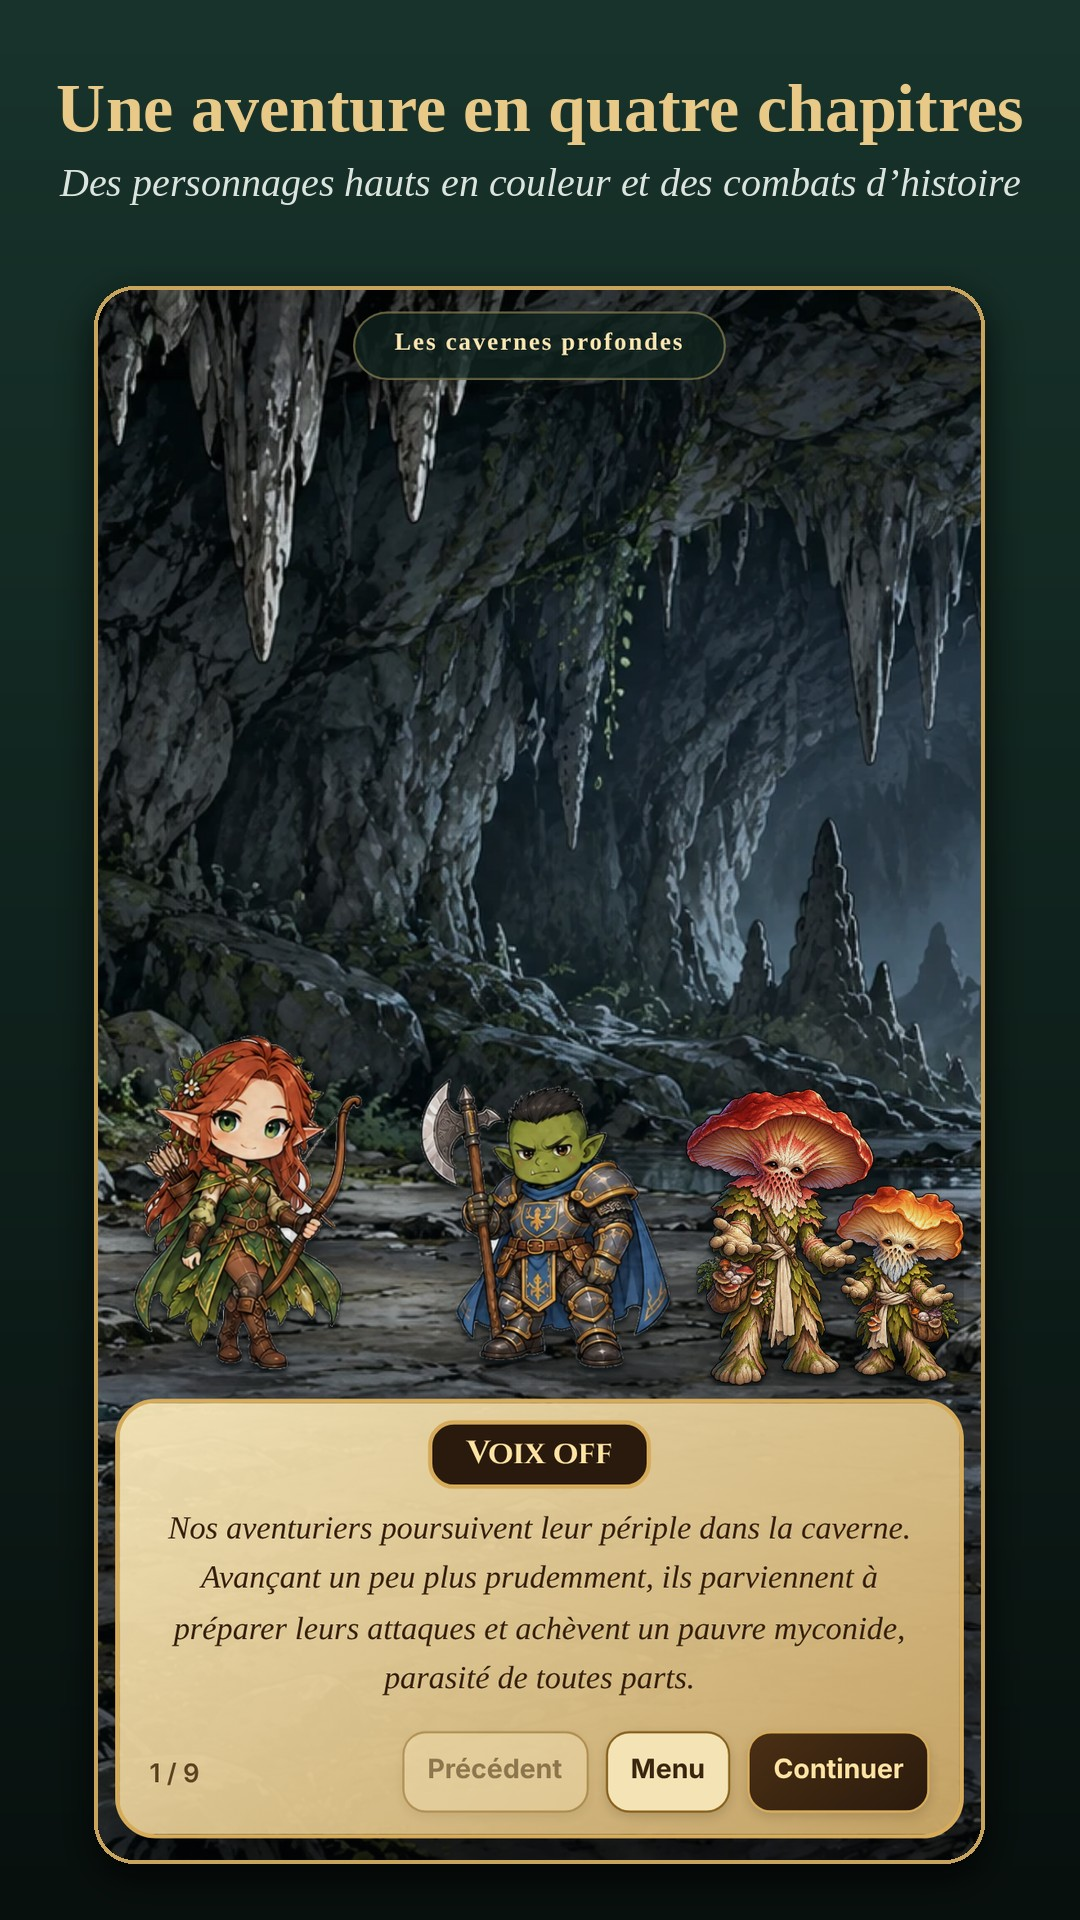
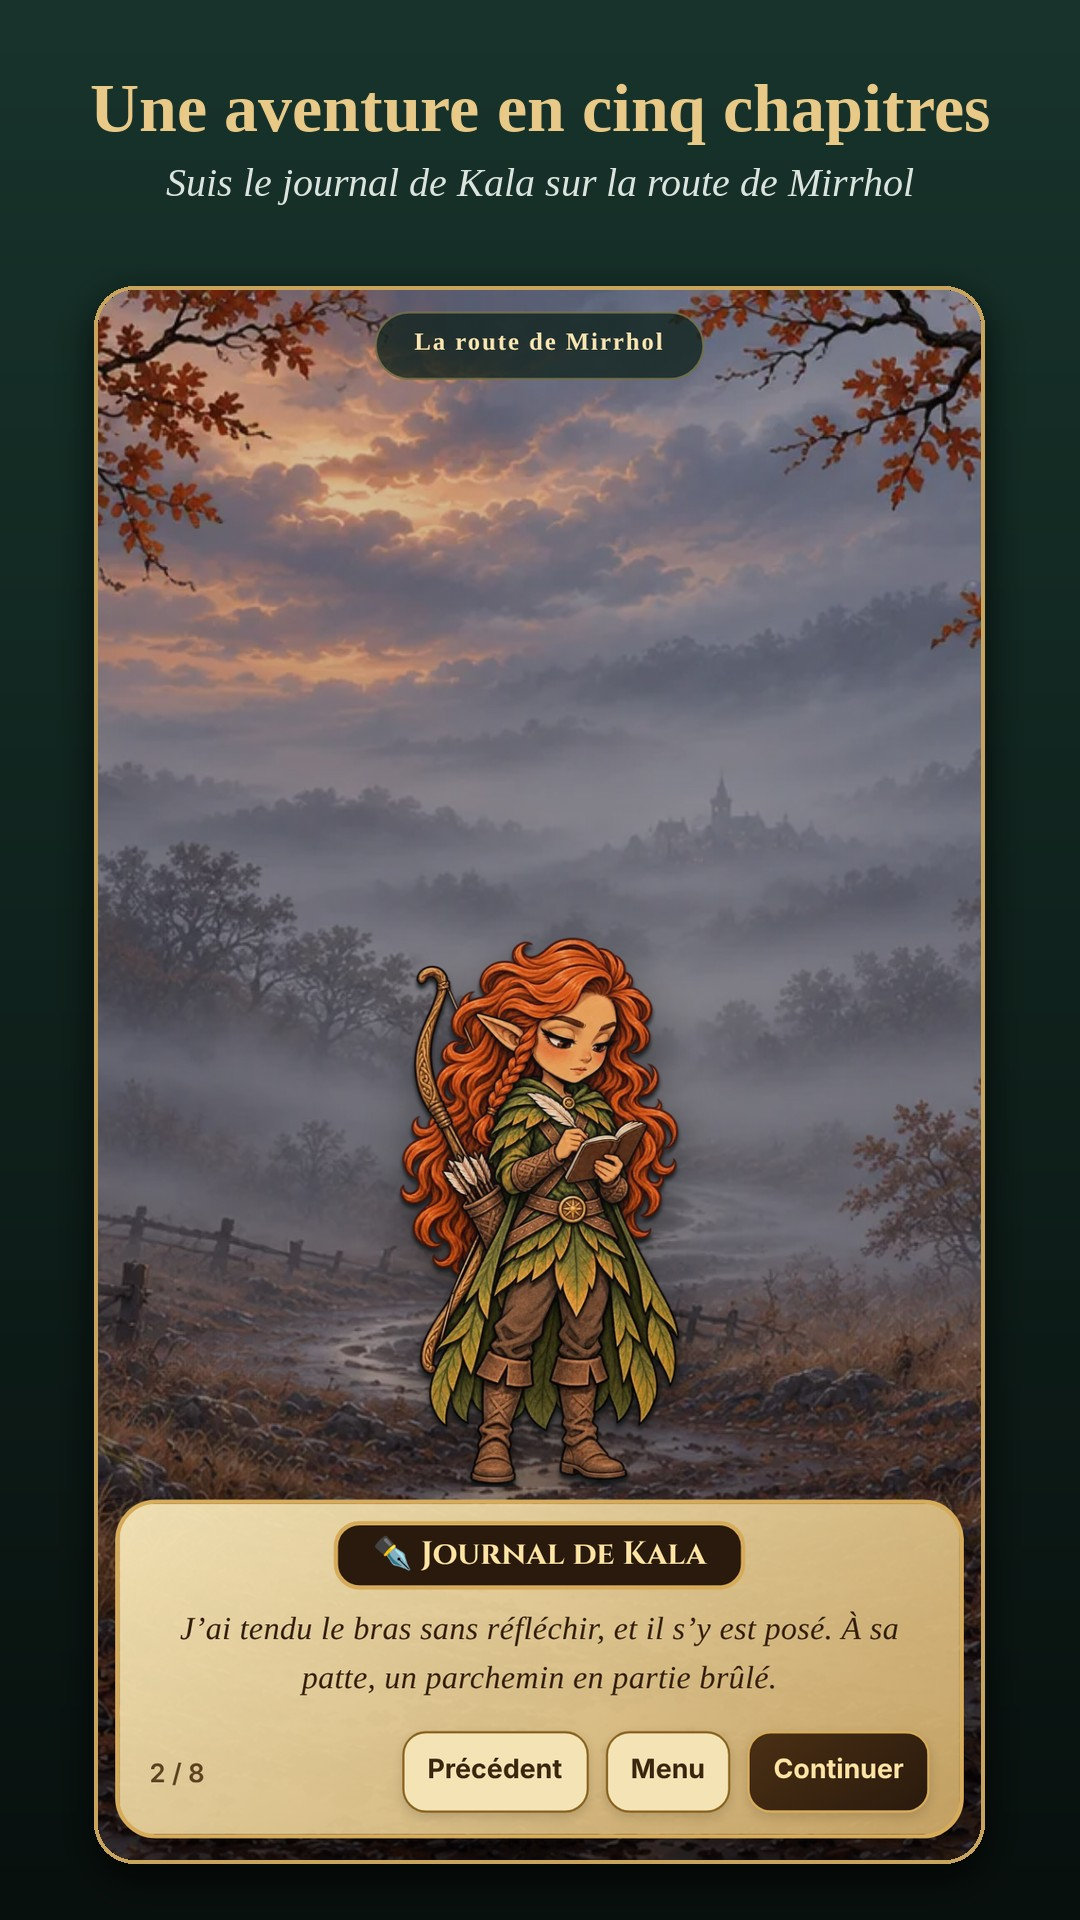
Fiche Play Store à jour : captures 0.5.6, cinq chapitres, plus de 230 dés, politique de confidentialité datée du 24 novembre

diff --git a/confidentialite.html b/confidentialite.html
@@ -28,7 +28,7 @@ hr{border:0;border-top:1px solid var(--line);margin:48px 0}
 <body>
 <main>
 <header><img src="assets/hackenia-app-v112-192.png" alt=""><h1>Politique de confidentialité</h1></header>
-<p class="muted">Hackénia — Trading Dice Game · Dernière mise à jour : 18 novembre 2026</p>
+<p class="muted">Hackénia — Trading Dice Game · Dernière mise à jour : 24 novembre 2026</p>
 <nav class="lang"><a href="#fr">Français</a><a href="#en">English</a></nav>
 
 <div id="fr">
@@ -81,7 +81,7 @@ hr{border:0;border-top:1px solid var(--line);margin:48px 0}
 
 <div id="en" lang="en">
 <h1>Privacy policy</h1>
-<p class="muted">Hackénia — Trading Dice Game · Last updated: November 18, 2026</p>
+<p class="muted">Hackénia — Trading Dice Game · Last updated: November 24, 2026</p>
 <section class="card">
 <p>Hackénia is an independent game created by Bulboel. In short: <strong>no ads, no tracking, no data selling, and players are never asked for an email or password.</strong></p>
 </section>

diff --git a/store/FICHE-PLAY-STORE.md b/store/FICHE-PLAY-STORE.md
@@ -28,14 +28,14 @@ URL de la politique de confidentialité (après fusion sur `main`) :
 >
 > Hackénia est un jeu de stratégie au tour par tour où tu collectionnes des dés magiques, composes tes decks et affrontes des adversaires sur des plateaux en 3D. Le jeu est né d'une vraie campagne de jeu de rôle entre ami(e)s.
 >
-> 🎲 PLUS DE 170 DÉS À COLLECTIONNER
-> Du commun au divin, en passant par les rares, les légendaires et les éclatants Crépitants. Chaque dé a sa figurine 3D, sa forme de dalles, son élément et parfois des synergies avec d'autres personnages.
+> 🎲 PLUS DE 230 DÉS À COLLECTIONNER
+> Du commun au divin, en passant par les rares, les légendaires et les éclatants Crépitants. Chaque dé a sa figurine 3D (ou sa figurine en papier !), sa forme de dalles, son élément et parfois des synergies avec d'autres personnages.
 >
 > ⚔ DES COMBATS TACTIQUES
-> Place tes dés, relie tes dalles, déplace tes créatures et choisis le bon moment pour attaquer. Foudre, vent, terre, glace, eau et feu : chaque élément a ses affinités et chaque terrain change la donne.
+> Place tes dés, relie tes dalles, déplace tes créatures et choisis le bon moment pour attaquer. Foudre, vent, terre, glace, eau et feu : chaque personnage a son élément, chaque élément en domine un autre, et chaque terrain favorise certains éléments.
 >
-> 📖 UN MODE HISTOIRE EN QUATRE CHAPITRES
-> Suis une bande d'aventuriers hauts en couleur de Bois tendre jusqu'à la cité de Dassom, à travers des dizaines de scènes illustrées et de duels d'histoire.
+> 📖 UN MODE HISTOIRE EN CINQ CHAPITRES
+> Suis une bande d'aventuriers hauts en couleur de Bois tendre jusqu'à la route maudite de Mirrhol, à travers des dizaines de scènes illustrées, des personnages expressifs et des duels d'histoire… jusqu'au journal de Kala.
 >
 > 🗺 DES TERRAINS VIVANTS
 > Lac rose et ses nénuphars, Terres embrasées, Île céleste, Vents de Hacko, Colisée, taverne du Griffon Doré… Chaque plateau a ses propres règles et surprises.
@@ -51,7 +51,7 @@ URL de la politique de confidentialité (après fusion sur `main`) :
 > • Boubourses à ouvrir et taux de chance affichés
 > • Propose ton propre dé : s'il est retenu, il rejoint le jeu avec ton nom !
 > • Les Contes de la Taverne : écris une scène de jeu de rôle
-> • Tutoriel en quatre petites leçons
+> • Tutoriel en petites leçons
 > • Jouable hors ligne, sauvegarde en ligne automatique sans compte ni email
 > • Aucune publicité
 >
@@ -77,14 +77,14 @@ Add these under « Traductions › Anglais ».
 >
 > Hackénia is a turn-based strategy game where you collect magical dice, build decks and face opponents on 3D boards. The game was born from a real tabletop role-playing campaign among friends.
 >
-> 🎲 OVER 170 DICE TO COLLECT
-> From common to divine, through rare, legendary and the dazzling Crackling dice. Each die has its own 3D figure, tile shape and element, and sometimes synergies with other characters.
+> 🎲 OVER 230 DICE TO COLLECT
+> From common to divine, through rare, legendary and the dazzling Crackling dice. Each die has its own 3D figure (or paper figure!), tile shape and element, and sometimes synergies with other characters.
 >
 > ⚔ TACTICAL BATTLES
-> Place your dice, link your tiles, move your creatures and pick the right moment to strike. Lightning, wind, earth, ice, water and fire: each element has its affinities, and each terrain changes the game.
+> Place your dice, link your tiles, move your creatures and pick the right moment to strike. Lightning, wind, earth, ice, water and fire: each character has an element, each element dominates another, and each terrain favors certain elements.
 >
-> 📖 A FOUR-CHAPTER STORY MODE
-> Follow a colourful band of adventurers from Bois tendre to the city of Dassom, through dozens of illustrated scenes and story duels.
+> 📖 A FIVE-CHAPTER STORY MODE
+> Follow a colourful band of adventurers from Bois tendre to the cursed road of Mirrhol, through dozens of illustrated scenes, expressive characters and story duels… up to Kala's diary.
 >
 > 🗺 LIVING TERRAINS
 > The Pink Lake and its water lilies, the Ember Lands, the Sky Island, the Winds of Hacko, the Colosseum, the Golden Griffin tavern… Each board has its own rules and surprises.
@@ -100,7 +100,7 @@ Add these under « Traductions › Anglais ».
 > • Pouches to open, with drop rates shown
 > • Suggest your own die: if it's picked, it joins the game with your name!
 > • Tavern Tales: write a role-playing scene
-> • Tutorial in four short lessons
+> • Tutorial in short lessons
 > • Playable offline, automatic cloud save with no account or email
 > • No ads
 >
@@ -143,7 +143,7 @@ Coller l'URL ci-dessus.
   - La taverne et ses boissons sont un décor ; si le formulaire demande précisément des références à l'alcool, répondre **oui, références légères**.
 - Les utilisateurs peuvent-ils interagir ou échanger du contenu ? **Oui** : PVP en ligne avec pseudo, Contes de la Taverne, propositions de dés.
 - Partage de la position : **Non**.
-- Achats numériques : **Non** pour l'instant. À mettre à jour quand les achats réels arriveront.
+- Achats numériques : **Non** pour l'instant (les packs s'achètent avec des Bubulles gagnées en jouant). À mettre à jour quand les achats en argent réel arriveront.
 - Résultat attendu : **PEGI 7** environ, éventuellement PEGI 12 à cause des interactions en ligne.
 
 ### Sécurité des données
